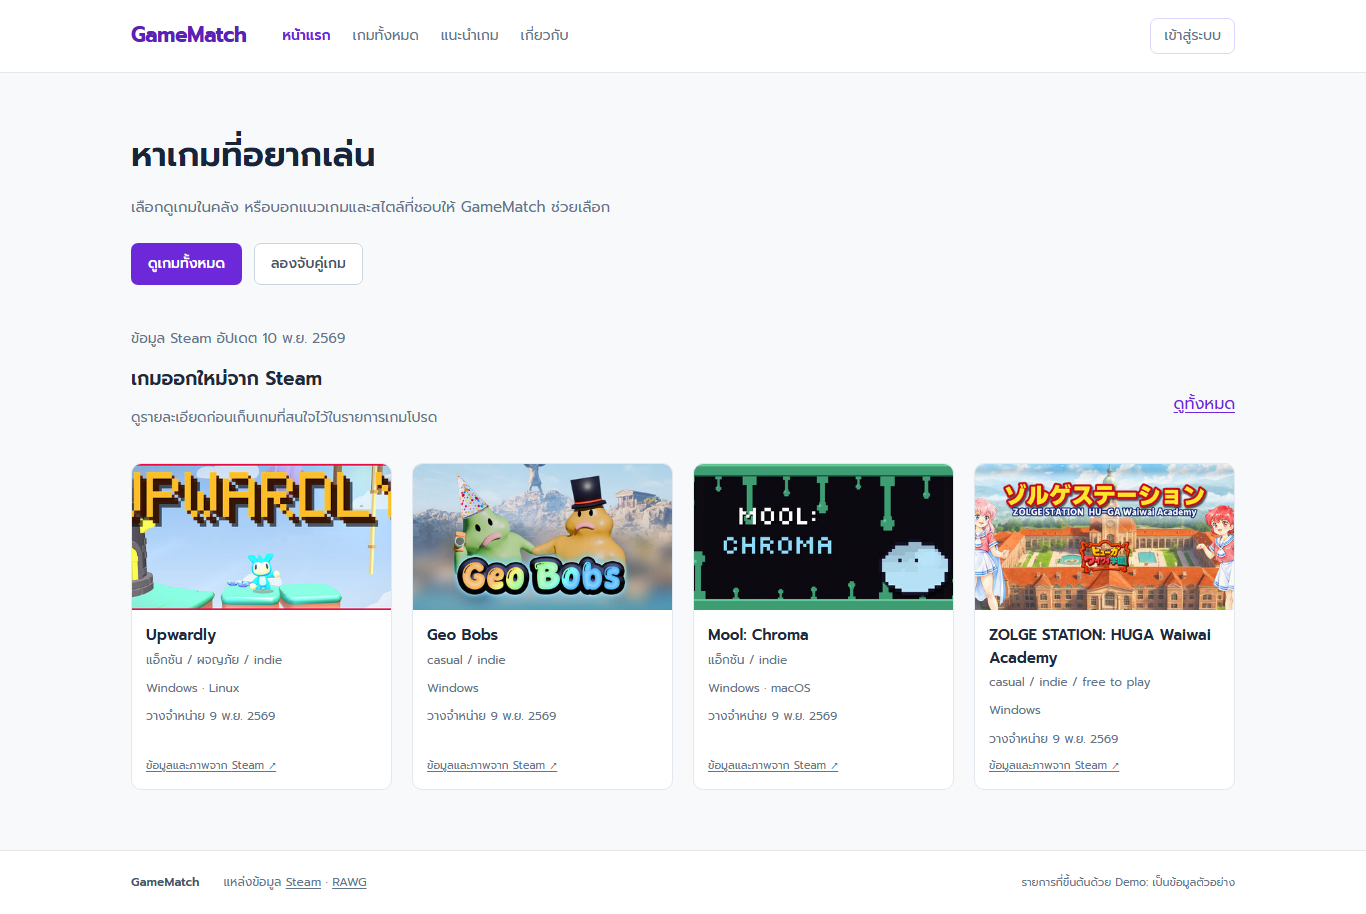
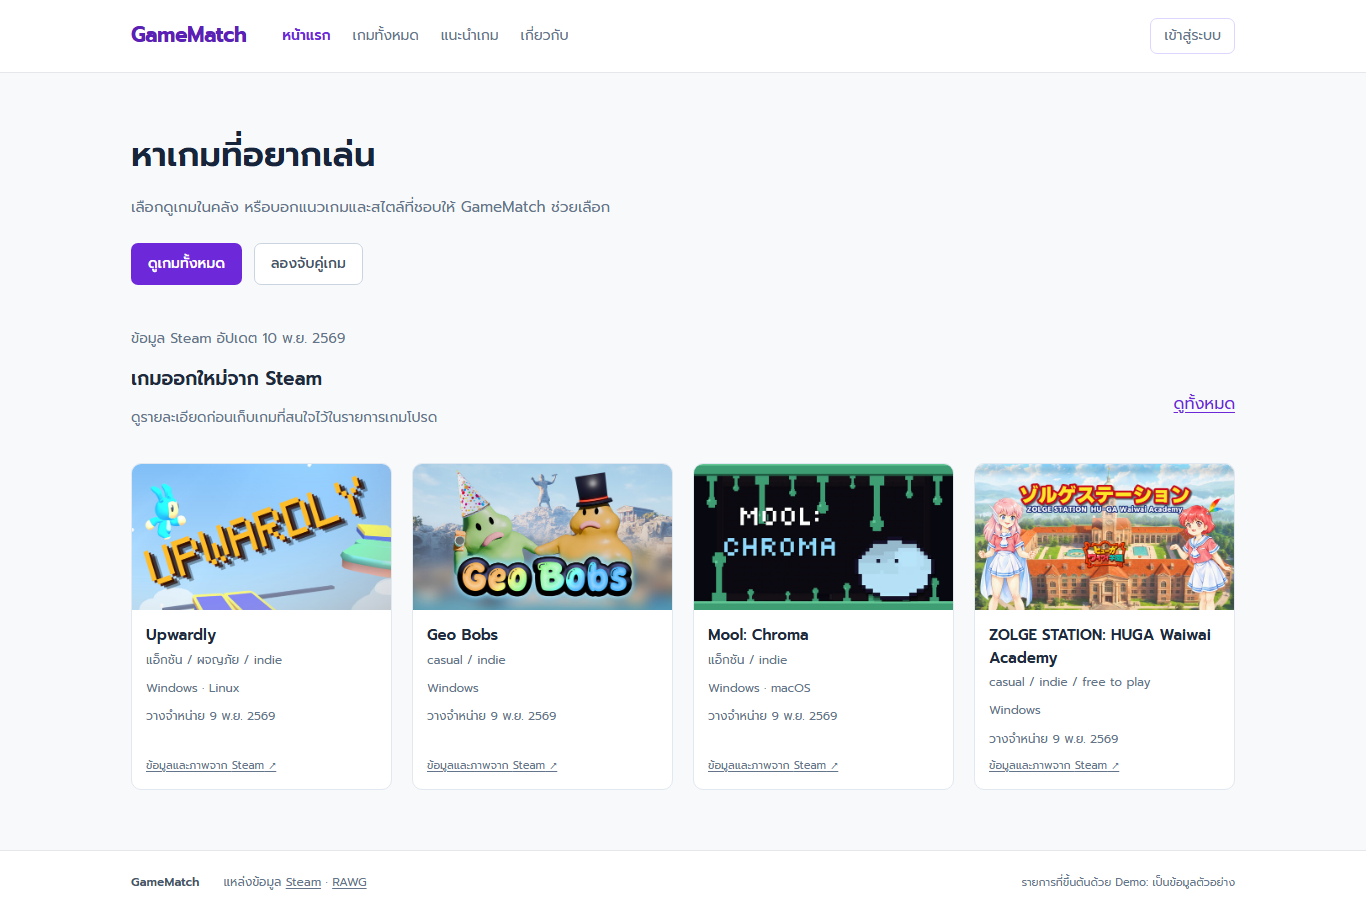
Record verified Steam capsule release and production QA [skip render]

Changed region(s): [[0.0922, 0.4902, 0.9224, 0.674]]

diff --git a/docs/DEPLOYMENT.md b/docs/DEPLOYMENT.md
@@ -6,9 +6,9 @@ Only actual completed results are recorded here; a created resource is not proof
 |---|---|
 | GitHub | https://github.com/nonthawat2548/GameMatch_ProjectWeb_BEFE — main, user-supplied repository |
 | Supabase | gamematch-db, mcwhgbiodyqotfgwzgkd, Singapore, user's organization; created after $0/month confirmation; schema/4 Demo seeds applied; real Go/DB/browser checks passed |
-| Render | https://gamematch-api-hzv6.onrender.com — live deploy dep-dbpchuvg5rvs738he1k0, commit fda44e555d3e22c29ba685a82ca6eb2070dd6608, free/Singapore, Workspace tea-db866i8m7kps73d7qq60; real API/DB checks passed |
-| Vercel | https://gamematch-projectweb-befe.vercel.app — production READY, dpl_8zzFrR5x7pQpWPnzcY6kJogWVtkq, commit fda44e555d3e22c29ba685a82ca6eb2070dd6608; separate project prj_Z3AR2chEAfNNc10ATA06eQ5kM9uh, Node 22, CRA root frontend; public Guest access verified |
-| RAWG | No user key configured; real import pending; Demo seed rows are fictional |
+| Render | https://gamematch-api-hzv6.onrender.com — verified Steam release live: dep-dbpd38tg1s2s73c9c2fg, commit 1552b997a1025b42fc4615236dfbc474fefad1c9, free/Singapore, Workspace tea-db866i8m7kps73d7qq60 |
+| Vercel | https://gamematch-projectweb-befe.vercel.app — verified Steam release READY: dpl_EYSEJ4FrBXmHC3naKLKN7DbUy4Mr, commit 1552b997a1025b42fc4615236dfbc474fefad1c9; project prj_Z3AR2chEAfNNc10ATA06eQ5kM9uh, Node 22, CRA root frontend |
+| RAWG | Optional secondary source; no user key configured. Current public catalog uses real Steam data and images |
 
 Latest catalog update: the user's requested Steam alternative is now implemented and imported 12 real New Releases with Store art, dates, tags and links. The four original Demo rows are hidden, not deleted. RAWG is optional and its missing key does not block Steam. The registered account the user selected has been promoted to Admin and verified; the private email is omitted from this public document. Image QA at desktop/mobile/narrow and real Admin Steam sync evidence is in `evidence/steam-browser/` and `evidence/cloud-browser/`.
 
@@ -43,4 +43,8 @@ The CORS configuration update became live in `dep-dbpchuvg5rvs738he1k0`. The exa
 
 `evidence/cloud-browser/report.json`: five scenario groups passed through the actual deployed Vercel React → Render Go → Supabase DB with no HTTP mocks, at desktop and mobile sizes. Includes UI registration, Quiz score from Go, login return path, favorite persistence/ownership, preferences, current-role Admin add/edit/hide/delete, Profile/Password, rejected old JWT, new-password login and logout. Disposable QA members/game were removed after the run. Four screenshots were retained and reviewed as image files; no user desktop/browser was controlled.
 
-`evidence/production-smoke.json`: HTTP 200/SPA root verified for `/`, `/discover`, `/match`, `/about`, a real game detail path and `/me/profile`; allowed/denied CORS verified. Permanent team Admin still requires the team's registered email to be promoted. No real RAWG key/import, guaranteed full rubric score, or finished team video is claimed.
+`evidence/production-smoke.json`: HTTP 200/SPA root verified for `/`, `/discover`, `/match`, `/about`, a real game detail path and `/me/profile`; allowed/denied CORS verified. The user's selected registered account has now been promoted to Admin and independently verified. No real RAWG key/import, guaranteed full rubric score, or finished team video is claimed.
+
+## Steam release verification
+
+At source 1552b99, Vercel reported READY and Render reported live. Real Admin UI Steam update completed and persisted 12 records with large Store capsules, source links and release dates. Repeat hosted auth/ownership/profile/Admin flows passed (six groups), with temporary QA accounts/game removed. Public image verification checks all 12 cover downloads at 1366/390/320px and captures updated screenshots. See `evidence/cloud-browser/`, `evidence/steam-browser/` and `evidence/steam-catalog.json`. The four old Demo records remain hidden rather than deleted. This current result supersedes the earlier fixture-only deployment snapshot.

diff --git a/README.md b/README.md
@@ -4,7 +4,7 @@
 
 **สถานะ:** Deploy ครบ Vercel + Render เชื่อม Repo + Supabase และตรวจระบบจริงผ่านเว็บแล้ว เปิด https://gamematch-projectweb-befe.vercel.app ได้เลย นำเข้าเกมจริงพร้อมภาพ/วันที่จาก Steam New Releases แล้ว 12 เกม และซ่อน Demo เดิมโดยไม่ลบข้อมูล RAWG ยังเป็นแหล่งเสริมที่ต้องตั้ง key ดูหลักฐาน/ข้อจำกัดใน docs/VALIDATION.md
 
-อัปเดต 10 พ.ย. 2569: frontend ผ่าน format, 13 suites / 82 tests และ production build; headless QA ผ่านทั้ง API จำลองและเส้นทาง React → Go → Supabase จริง รวมสมัครสมาชิก รายการโปรดสองบัญชี Preferences, Profile/Password และ Admin ไม่มีการเปิดหน้าต่างหรือควบคุมจอผู้ใช้ สร้าง `gamematch-db` ใหม่ตามที่ผู้ใช้ยืนยัน โดยไม่แตะ MovieHub และใช้ repo `nonthawat2548/GameMatch_ProjectWeb_BEFE` ผล Go/DB และข้อจำกัดอยู่ใน `docs/evidence/`
+อัปเดต 10 พ.ย. 2569: frontend ผ่าน format, 13 suites / 84 tests และ production build; headless QA ผ่านทั้ง API จำลองและเส้นทาง React → Go → Supabase จริง รวมสมัครสมาชิก รายการโปรดสองบัญชี Preferences, Profile/Password และ Admin ไม่มีการเปิดหน้าต่างหรือควบคุมจอผู้ใช้ สร้าง `gamematch-db` ใหม่ตามที่ผู้ใช้ยืนยัน โดยไม่แตะ MovieHub และใช้ repo `nonthawat2548/GameMatch_ProjectWeb_BEFE` ผล Go/DB และข้อจำกัดอยู่ใน `docs/evidence/`
 
 ## เปิดให้ Codex ทำต่อ
 1. แตก ZIP แล้วเปิดโฟลเดอร์ gamematch-basic ใน VS Code / Codex
